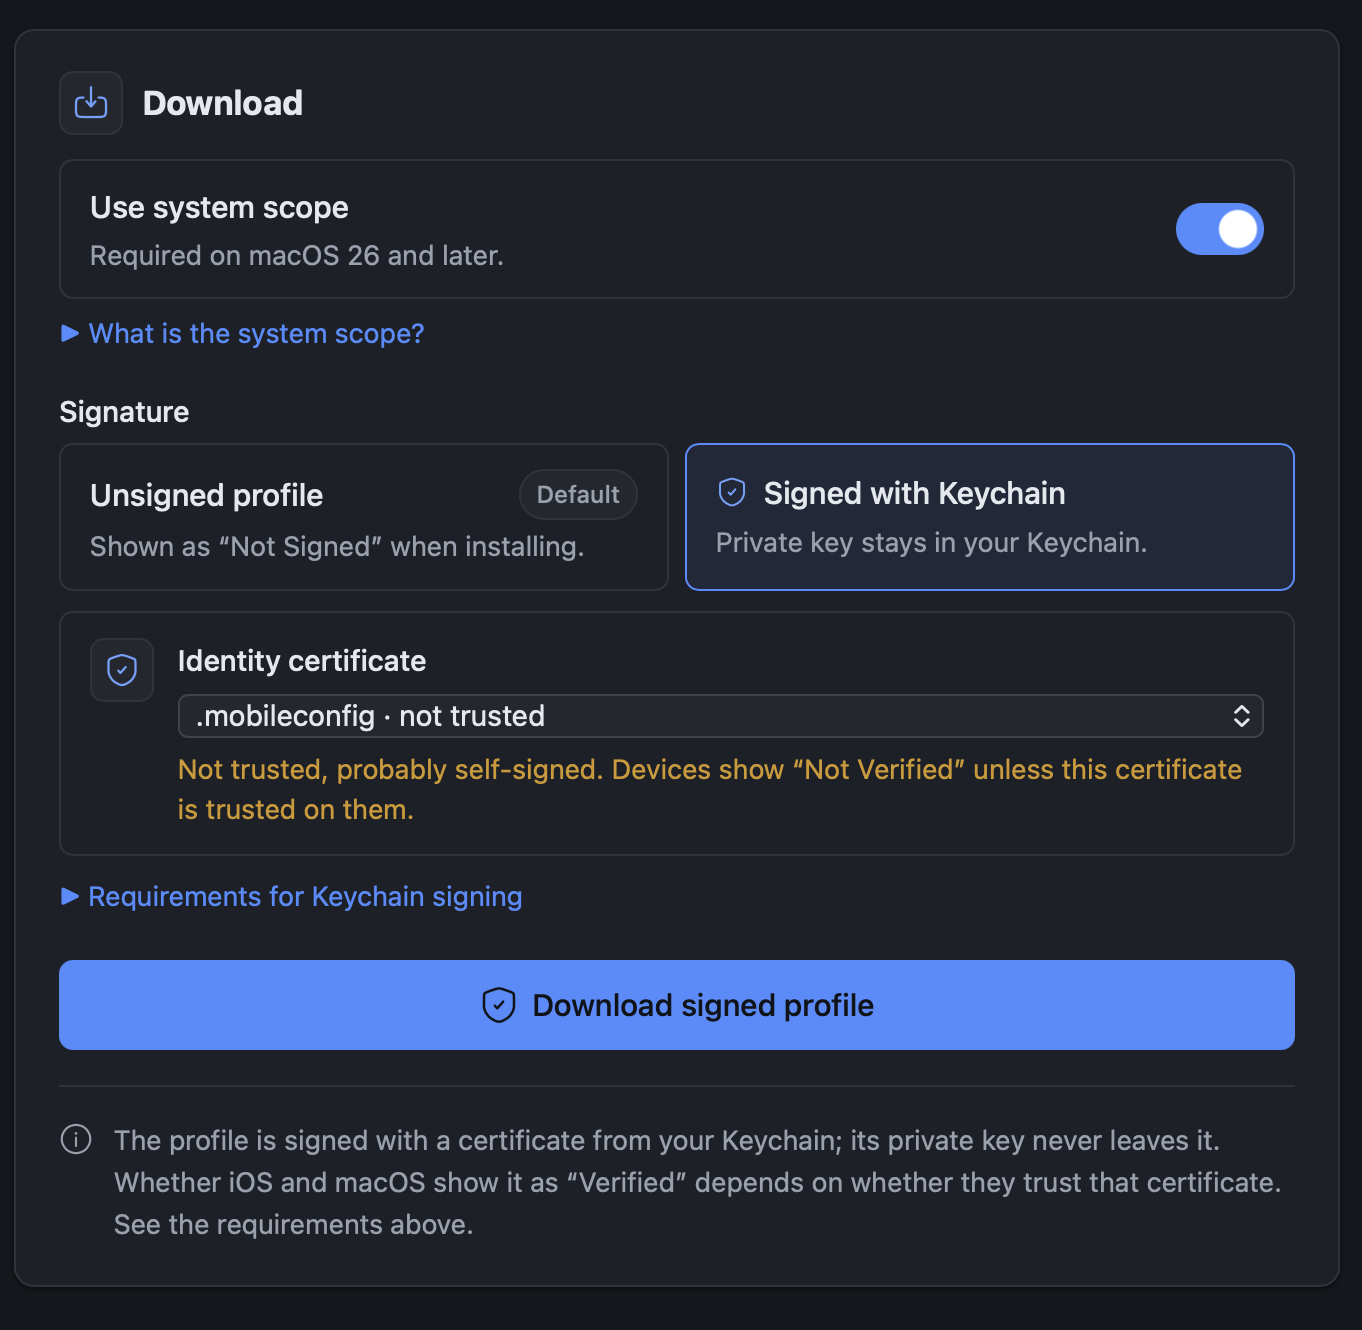
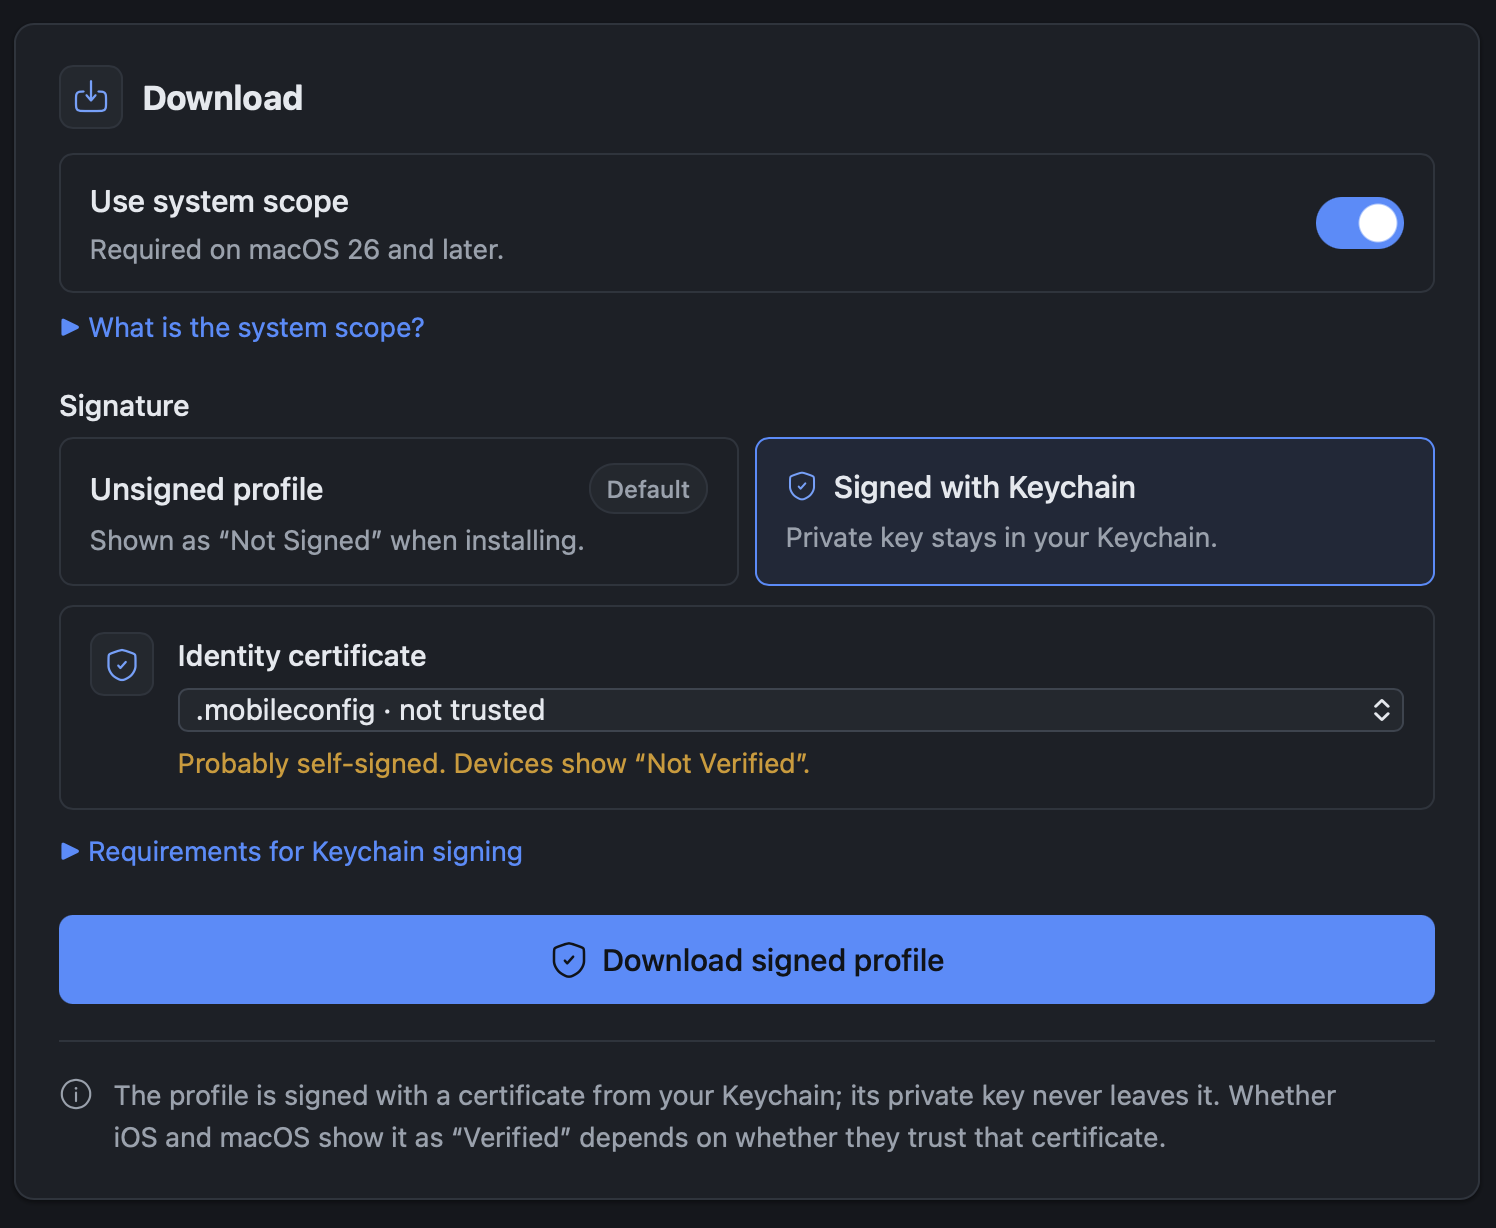
Improving README

diff --git a/README.md b/README.md
@@ -12,16 +12,11 @@ Apple has supported DNS-over-HTTPS and DNS-over-TLS since iOS 14 and macOS 11,
 but exposes no way to use them without an app or a configuration profile. This
 tool builds those profiles.
 
-## Which way to run it
+> [!NOTE]
+> The profiles it produces are **unsigned**, iOS and macOS label them "Not
+> Signed"and will ask for confirmation. Use the Desktop app for local signing
 
-| You want to                           | Use                    | Notes                              |
-| ------------------------------------- | ---------------------- | ---------------------------------- |
-| Install a profile on an iPhone / iPad | LAN server/Deno Deploy | The device must download it itself |
-| Install a profile on a Mac            | Desktop app (macOS)    | Saves and opens System Settings    |
-| Host it for your household/company    | `dist/` on any server  | Static files, no runtime needed    |
-| Work on the code                      | `deno task dev`        | Rebuilds on save                   |
-
-## first steps
+## First steps
 
 ### check out the code
 
@@ -190,25 +185,6 @@ the file instead, opening it from Files should start the same flow.
 
 For a permanent install, `deno task build` produces a static `dist/` that any
 web server can host, over HTTP or HTTPS. Nothing server-side is required.
-
-### Deno Deploy
-
-The public instance at <https://apple.mobileconfig.deno.net> runs on
-[Deno Deploy](https://deno.com/deploy), which builds and publishes on every push
-to `main`. Its settings live in the `deploy` block of `deno.json`: run
-`deno task build`, then serve `dist/` as static files, with unknown paths
-answered by a 404 rather than the tool page.
-
-The site's address is `SITE_URL` in `pages/pages.ts`. The build derives
-`sitemap.xml`, `robots.txt` and `llms.txt` from it, so moving the site to
-another domain is that one line.
-
-A hosted instance stays entirely client-side - nothing is uploaded.
-
-> [!NOTE]
-> The profiles it produces are **unsigned**, so iOS and macOS label them "Not
-> Signed" during installation and ask for confirmation. The download page states
-> this.
 
 ### Desktop app
 
